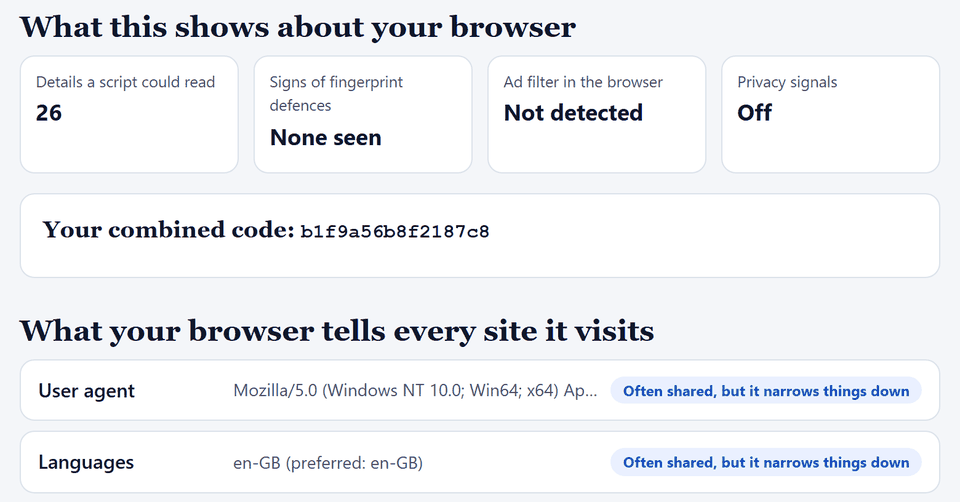
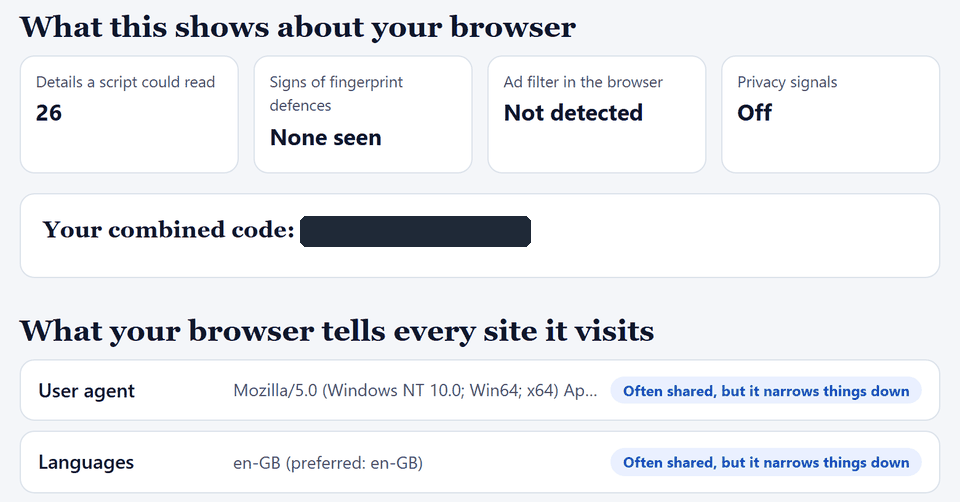
Browser check preview and announce draft: the combined code is covered; delete-mastodon-post tool and workflow (own posts only, text must match)

Changed region(s): [[0.3125, 0.4183, 0.5625, 0.508]]

diff --git a/traceguard/mastodon_delete.py b/traceguard/mastodon_delete.py
@@ -1,0 +1,69 @@
+"""Delete one of the account's own Mastodon posts, on the maintainer's explicit request.
+
+Deliberately narrow, like bsky_delete: it deletes a single status of the account the token belongs to (it first asks the
+server who that is and refuses a post of anyone else), and only if the status text starts with the text the maintainer
+expects. Run from the delete-mastodon-post workflow, which has the Mastodon secrets; nothing is read from or written to
+the repository.
+
+Usage: python -m traceguard.mastodon_delete STATUS_ID --expect "start of the post text"
+"""
+from __future__ import annotations
+
+import argparse
+import html
+import json
+import os
+import re
+import sys
+
+from .publish import Mastodon, PublishError, _check, urllib_http
+
+ID_RE = re.compile(r"^[0-9]{1,30}$")
+TAGS = re.compile(r"<[^>]+>")
+
+
+def plain(content: str) -> str:
+    """The status text as a person reads it: Mastodon sends HTML."""
+    return html.unescape(TAGS.sub("", content.replace("<br />", "\n").replace("<br>", "\n").replace("</p><p>", "\n\n")))
+
+
+def delete_status(client: Mastodon, status_id: str, expect: str, log=print) -> bool:
+    if not ID_RE.fullmatch(status_id):
+        raise PublishError("the status id must be digits only")
+    if not expect.strip():
+        raise PublishError("say how the post text starts (--expect), so the wrong post cannot be deleted")
+    status, headers, raw = client.http("GET", f"{client.base}/api/v1/accounts/verify_credentials", headers=client._headers())
+    me = str(json.loads(_check(status, raw, "who am I", headers))["id"])
+    status, headers, raw = client.http("GET", f"{client.base}/api/v1/statuses/{status_id}", headers=client._headers())
+    found = json.loads(_check(status, raw, "read status", headers))
+    if str(found.get("account", {}).get("id")) != me:
+        raise PublishError(f"the status {status_id} is not from this account; nothing was deleted")
+    text = plain(str(found.get("content", "")))
+    if not text.startswith(expect):
+        raise PublishError(f"the status {status_id} does not start with the expected text; nothing was deleted")
+    status, headers, raw = client.http("DELETE", f"{client.base}/api/v1/statuses/{status_id}", headers=client._headers())
+    _check(status, raw, "delete status", headers)
+    log(f"deleted {status_id}: {text[:70]}")
+    return True
+
+
+def main(argv: list[str] | None = None, *, env=None, http=urllib_http) -> int:
+    env = os.environ if env is None else env
+    parser = argparse.ArgumentParser(prog="traceguard.mastodon_delete", description=__doc__)
+    parser.add_argument("status_id")
+    parser.add_argument("--expect", required=True)
+    args = parser.parse_args(argv)
+    missing = [n for n in ("MASTODON_URL", "MASTODON_TOKEN") if not env.get(n)]
+    if missing:
+        print(f"missing environment variable(s): {', '.join(missing)}", file=sys.stderr)
+        return 2
+    try:
+        delete_status(Mastodon(http, env["MASTODON_URL"], env["MASTODON_TOKEN"]), args.status_id, args.expect)
+    except PublishError as error:
+        print(f"error: {error}", file=sys.stderr)
+        return 1
+    return 0
+
+
+if __name__ == "__main__":
+    raise SystemExit(main())

diff --git a/tests/test_mastodon_delete.py b/tests/test_mastodon_delete.py
@@ -1,0 +1,50 @@
+import json
+
+import pytest
+
+from traceguard import mastodon_delete
+from traceguard.publish import Mastodon, PublishError
+
+
+class FakeHttp:
+    def __init__(self, owner="1", status_owner="1", content="<p>Cookies are fading; fingerprinting is not.</p>"):
+        self.calls, self.owner, self.status_owner, self.content = [], owner, status_owner, content
+
+    def __call__(self, method, url, headers=None, data=None):
+        self.calls.append((method, url))
+        if url.endswith("verify_credentials"):
+            return 200, {}, json.dumps({"id": self.owner}).encode()
+        if method == "GET":
+            return 200, {}, json.dumps({"account": {"id": self.status_owner}, "content": self.content}).encode()
+        return 200, {}, b"{}"
+
+
+def client(http):
+    return Mastodon(http, "https://mastodon.example", "tok")
+
+
+def deletes(http):
+    return [c for c in http.calls if c[0] == "DELETE"]
+
+
+def test_deletes_only_its_own_status_when_the_text_matches():
+    http = FakeHttp()
+    assert mastodon_delete.delete_status(client(http), "117463023118125488", "Cookies are fading", log=lambda *_: None)
+    assert deletes(http) == [("DELETE", "https://mastodon.example/api/v1/statuses/117463023118125488")]
+
+
+def test_refuses_another_accounts_status_or_a_different_text():
+    for http, expect in ((FakeHttp(status_owner="2"), "Cookies"), (FakeHttp(), "Something else")):
+        with pytest.raises(PublishError):
+            mastodon_delete.delete_status(client(http), "117463023118125488", expect, log=lambda *_: None)
+        assert not deletes(http)
+
+
+@pytest.mark.parametrize("status_id", ["", "abc", "12/../3", "1 2"])
+def test_refuses_a_malformed_id(status_id):
+    with pytest.raises(PublishError):
+        mastodon_delete.delete_status(client(FakeHttp()), status_id, "x", log=lambda *_: None)
+
+
+def test_html_is_read_as_text():
+    assert mastodon_delete.plain("<p>a &amp; b<br />c</p>") == "a & b\nc"
